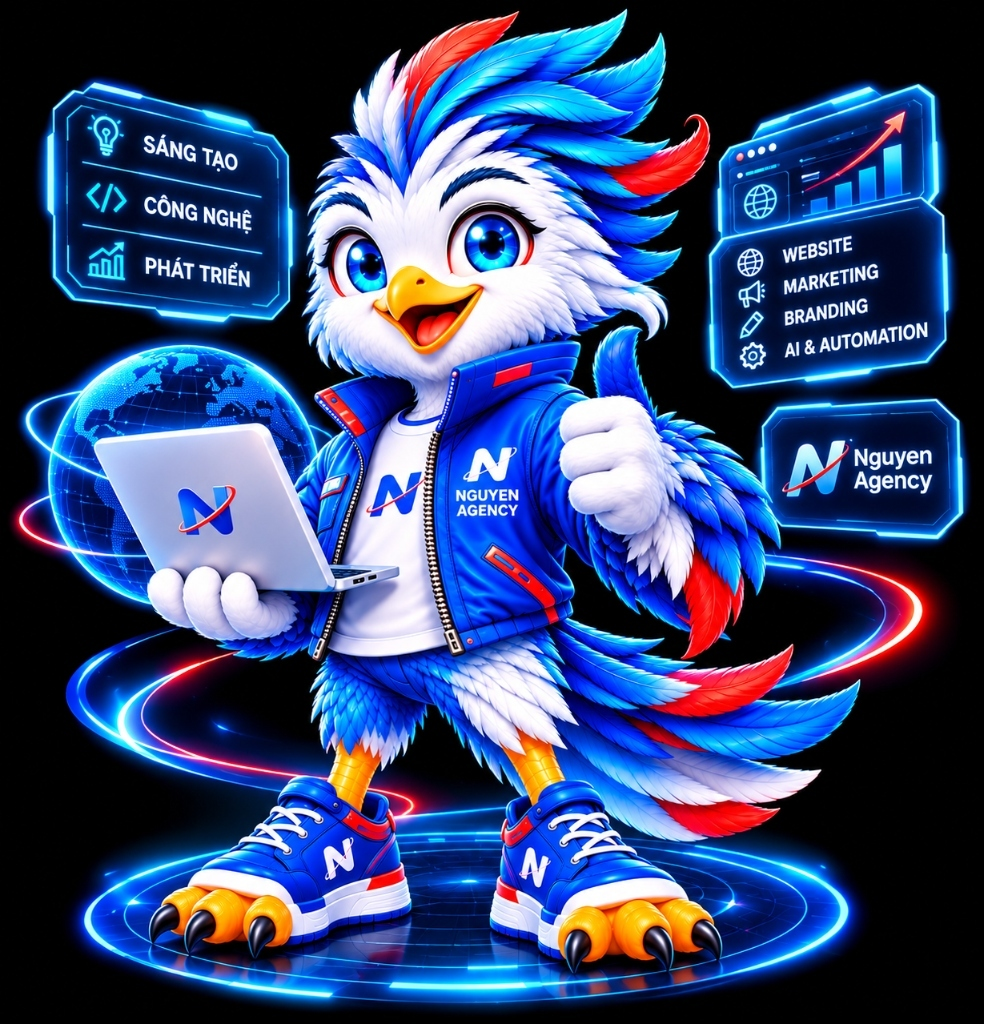
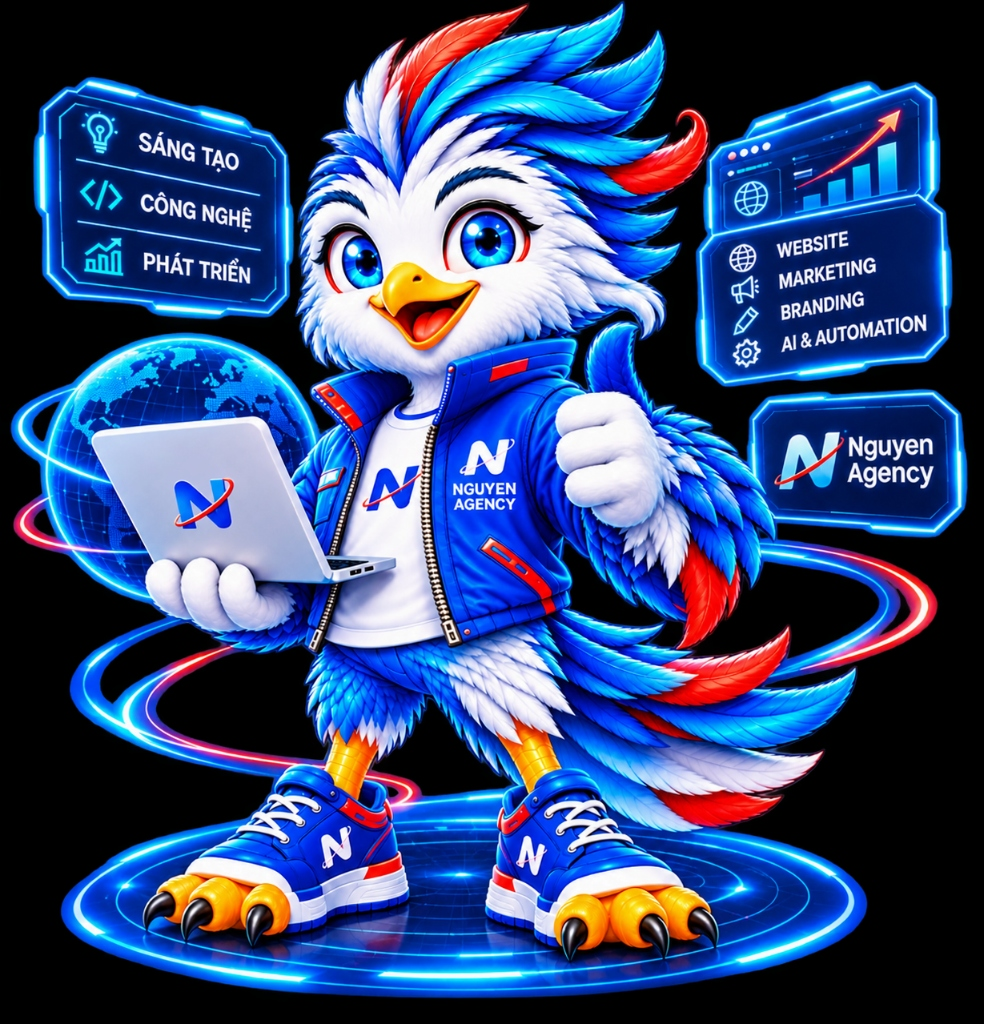
fix(hero): Replace mascot with transparent PNG without black border and full fidelity

diff --git a/src/components/admin/HomepageBuilderClient.tsx b/src/components/admin/HomepageBuilderClient.tsx
@@ -137,7 +137,7 @@ export default function HomepageBuilderClient({
         subtitle: "01 • KIẾN TẠO. PHÁT TRIỂN. CHUYỂN HÓA.",
         description:
           "Đối tác sáng tạo & công nghệ, đồng hành cùng doanh nghiệp xây dựng thương hiệu, tăng trưởng và chuyển đổi số bền vững.",
-        mediaUrl: "/images/mascot-character-transparent.png",
+        mediaUrl: "/images/mascot-character-transparent-v2.png",
         ctaText: "XEM DỰ ÁN",
         ctaLink: "/portfolio",
         order: 1,
@@ -370,7 +370,7 @@ export default function HomepageBuilderClient({
           const previewImg =
             sec.mediaUrl ||
             (sec.sectionKey === "HERO"
-              ? "/images/mascot-character-transparent.png"
+              ? "/images/mascot-character-transparent-v2.png"
               : null);
 
           return (
@@ -612,11 +612,11 @@ export default function HomepageBuilderClient({
                   defaultValue={
                     editingItem?.mediaUrl ||
                     (isHeroModal
-                      ? "/images/mascot-character-transparent.png"
+                      ? "/images/mascot-character-transparent-v2.png"
                       : "")
                   }
                   folder="homepage"
-                  placeholder="/images/mascot-character-transparent.png hoặc tải file từ máy..."
+                  placeholder="/images/mascot-character-transparent-v2.png hoặc tải file từ máy..."
                 />
 
                 {isHeroModal && (
@@ -627,22 +627,22 @@ export default function HomepageBuilderClient({
                       </label>
                       <select
                         name="hero_blendMode"
-                        defaultValue={heroCustom.blendMode || "screen"}
+                        defaultValue={heroCustom.blendMode || "normal"}
                         className="w-full px-3 py-2 rounded-xl bg-[#171717] border border-[#292929] text-white text-xs focus:outline-none focus:border-[#007BA7]"
                       >
-                        <option value="screen">
-                          Tự động xóa nền đen (Screen Blend - Khuyên dùng)
-                        </option>
                         <option value="normal">
-                          Giữ nguyên gốc (Normal - Dùng cho ảnh PNG đã tách nền)
+                          Chuẩn sắc nét (Normal - Khuyên dùng cho ảnh PNG trong suốt)
+                        </option>
+                        <option value="screen">
+                          Tự động hòa trộn nền đen (Screen Blend)
                         </option>
                       </select>
                     </div>
                     <div className="flex items-end">
                       <p className="text-[11px] text-[#71717A] leading-relaxed">
-                        💡 Mẹo: Nếu bạn tải lên ảnh có nền màu đen, chế độ{" "}
-                        <strong className="text-[#00E5FF]">Tự động xóa nền đen</strong>{" "}
-                        sẽ giúp nhân vật hòa vào nền sao mà không bị khung vuông đen.
+                        💡 Mẹo: Ảnh Mascot mặc định đã được tách nền trong suốt 100% không viền đen. Bạn cũng có thể chọn{" "}
+                        <strong className="text-[#00E5FF]">Screen Blend</strong>{" "}
+                        nếu tải lên ảnh có nền đen thuần.
                       </p>
                     </div>
                   </div>

diff --git a/src/components/home/HeroSection.tsx b/src/components/home/HeroSection.tsx
@@ -98,13 +98,23 @@ export default function HeroSection({ sectionData }: { sectionData?: any }) {
     custom.videoUrl ||
     "https://www.youtube-nocookie.com/embed/dQw4w9WgXcQ?autoplay=1";
 
-  const heroImage =
+  let heroImage =
     sectionData?.mediaUrl && sectionData.mediaUrl.trim() !== ""
       ? sectionData.mediaUrl.trim()
-      : "/images/mascot-character-transparent.png";
+      : "/images/mascot-character-transparent-v2.png";
+
+  if (
+    heroImage === "/images/mascot-character-transparent.png" ||
+    heroImage === "/images/mascot-character-full.png" ||
+    heroImage === "/images/mascot-character-full.jpg" ||
+    heroImage === "/images/hero-mascot.jpg" ||
+    (heroImage.endsWith(".jpg") && heroImage.includes("mascot"))
+  ) {
+    heroImage = "/images/mascot-character-transparent-v2.png";
+  }
 
   const blendMode: "screen" | "normal" =
-    custom.blendMode === "normal" ? "normal" : "screen";
+    custom.blendMode === "screen" ? "screen" : "normal";
 
   const cards =
     Array.isArray(custom.cards) && custom.cards.length === 3
